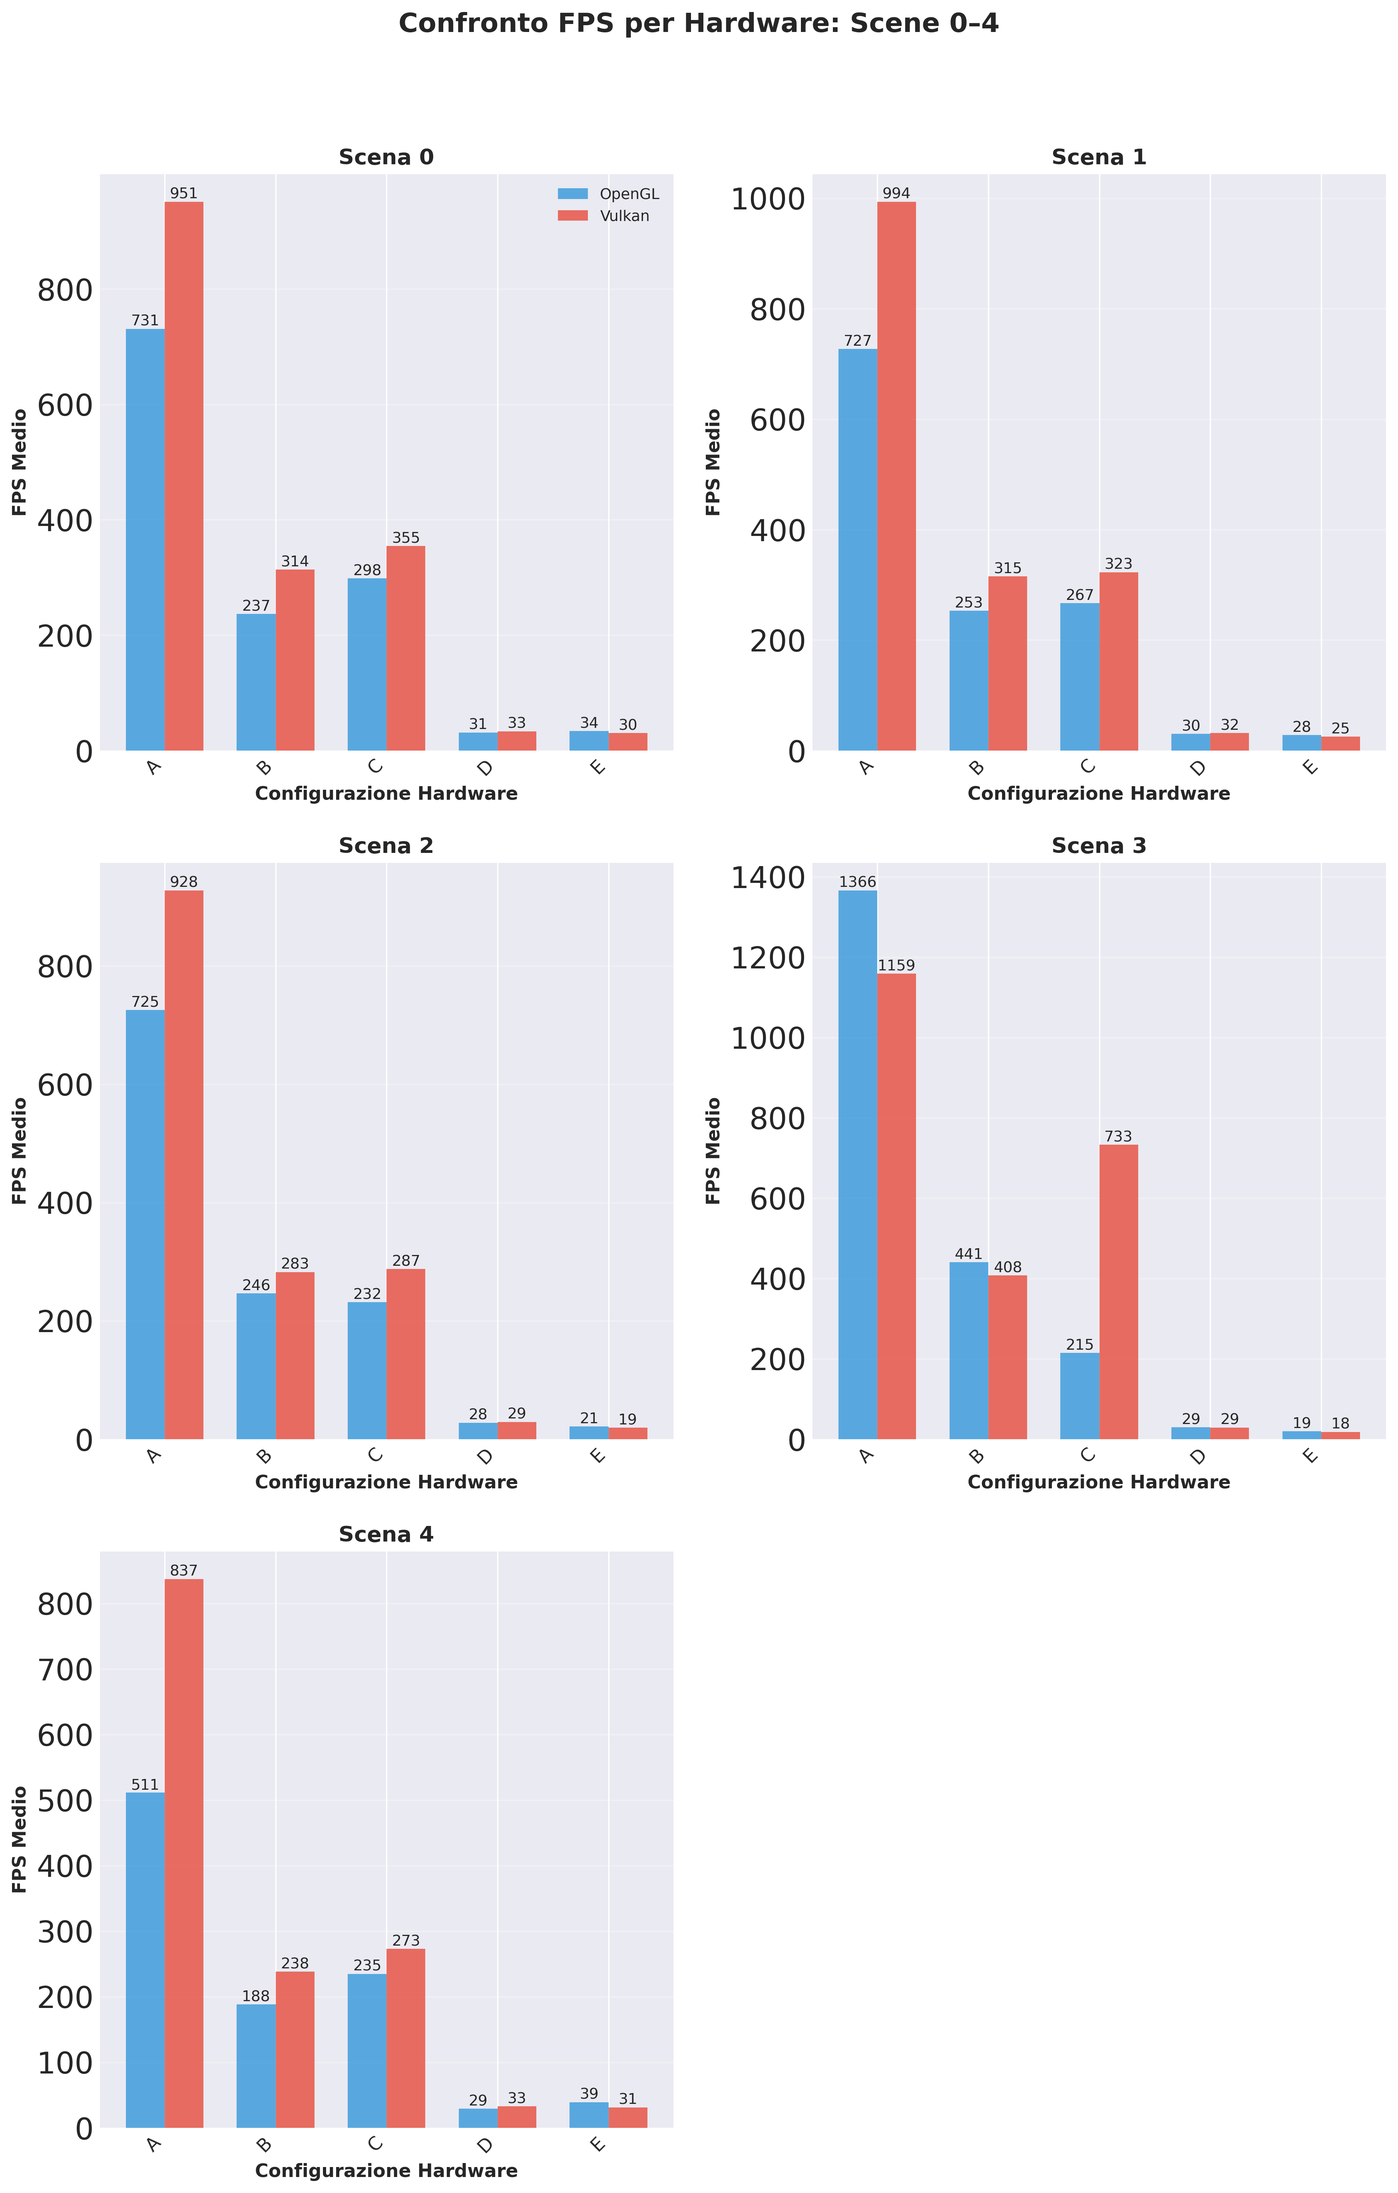
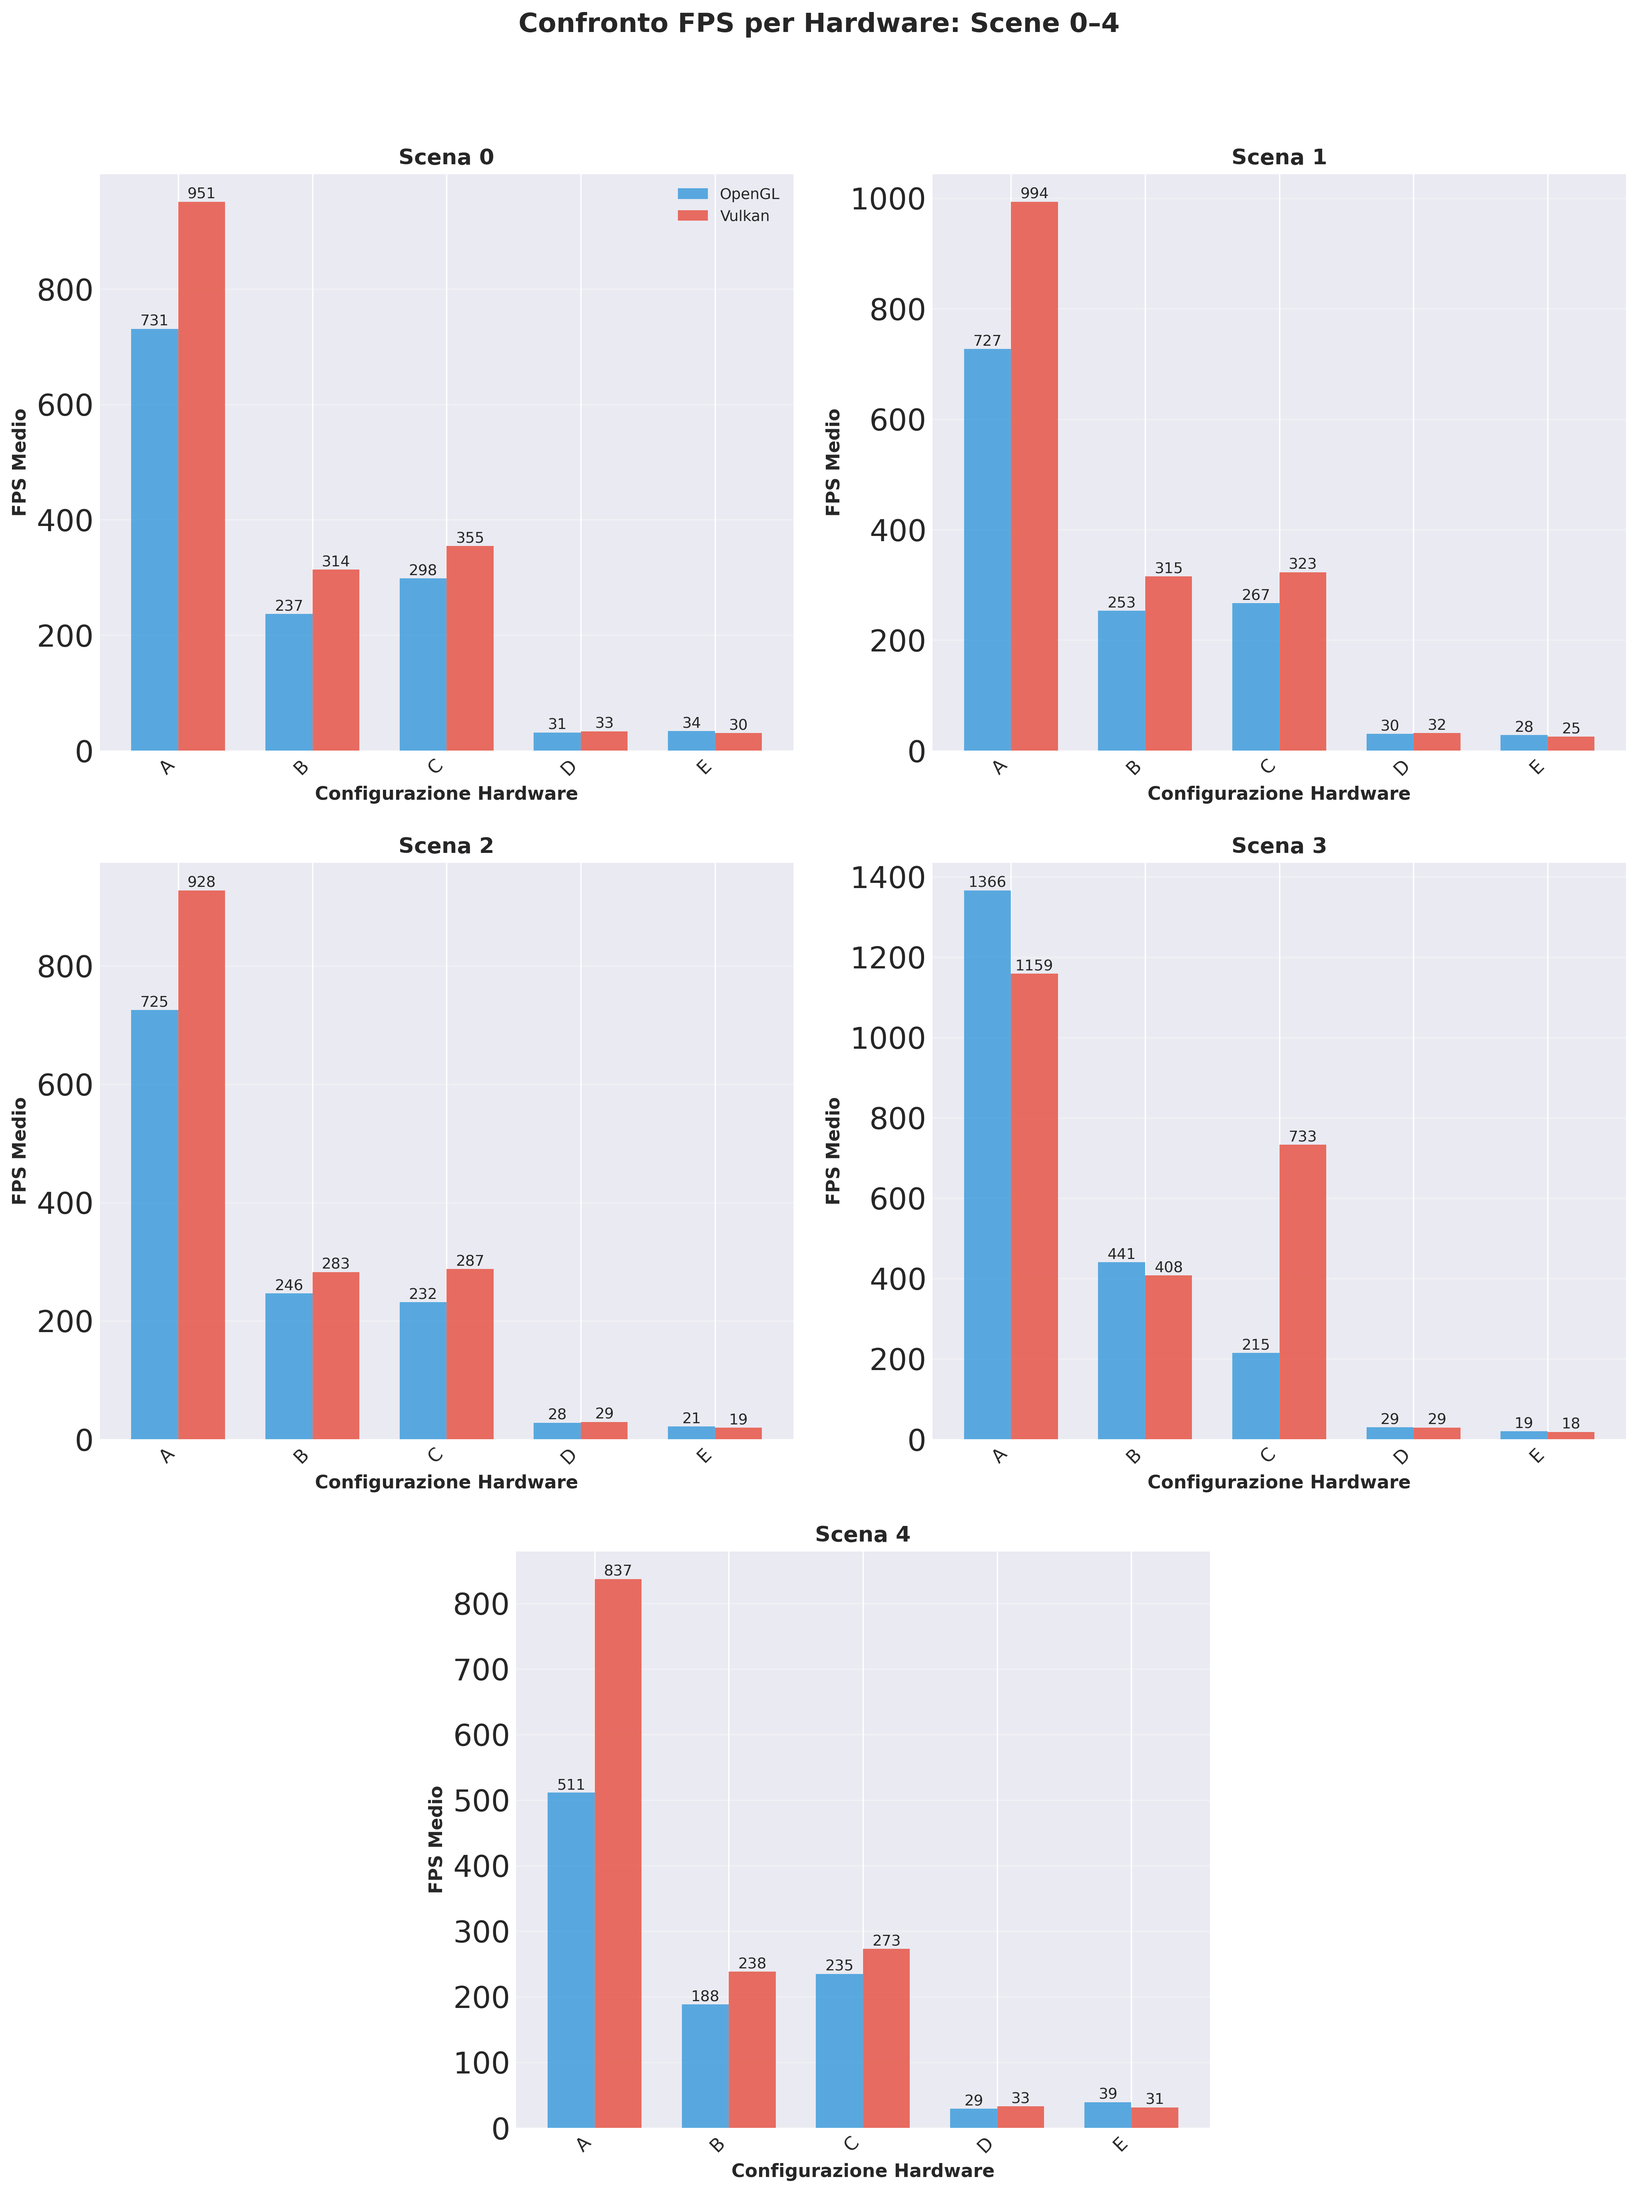
Update some graph layouts

diff --git a/scripts/main.py b/scripts/main.py
@@ -882,12 +882,23 @@ if not frames.empty and "FrameTime(ms)" in frames.columns:
 # ==============================
 if "Average FPS" in summary.columns and not summary.empty:
     scenes_all = [0, 1, 2, 3, 4]
-    fig, axes = plt.subplots(3, 2, figsize=(12, 18))
-    axes = axes.flatten()
+    fig = plt.figure(figsize=(14, 18))
+    gs = fig.add_gridspec(3, 4)
+    axes = []
+    # Scenes 0–3: top two rows, 2 cols each
+    positions = [
+        gs[0, 0:2],  # Scene 0
+        gs[0, 2:4],  # Scene 1
+        gs[1, 0:2],  # Scene 2
+        gs[1, 2:4],  # Scene 3
+        gs[2, 1:3],  # Scene 4 (centered)
+    ]
+    for pos in positions:
+        axes.append(fig.add_subplot(pos))
+    # 5th scene centered in bottom row
+    axes.append(fig.add_subplot(gs[1:3, :]))
 
     for idx, scene in enumerate(scenes_all):
-        if idx >= len(axes):
-            break
         ax = axes[idx]
         scene_data = summary[summary["Scene"] == scene]
         pcs = sorted(scene_data["PC"].unique())
@@ -933,12 +944,23 @@ if "Average FPS" in summary.columns and not summary.empty:
 # ==============================
 if "Average FPS" in summary.columns and not summary.empty:
     scenes_all = [0, 1, 2, 3, 4]
-    fig, axes = plt.subplots(3, 2, figsize=(12, 18))
-    axes = axes.flatten()
+    fig = plt.figure(figsize=(14, 18))
+    gs = fig.add_gridspec(3, 4)
+    axes = []
+    # Scenes 0–3: top two rows, 2 cols each
+    positions = [
+        gs[0, 0:2],  # Scene 0
+        gs[0, 2:4],  # Scene 1
+        gs[1, 0:2],  # Scene 2
+        gs[1, 2:4],  # Scene 3
+        gs[2, 1:3],  # Scene 4 (centered)
+    ]
+    for pos in positions:
+        axes.append(fig.add_subplot(pos))
+    # 5th scene centered in bottom row
+    axes.append(fig.add_subplot(gs[1:3, :]))
 
     for idx, scene in enumerate(scenes_all):
-        if idx >= len(axes):
-            break
         ax = axes[idx]
         scene_data = summary[summary["Scene"] == scene]
         pcs = sorted(scene_data["PC"].unique())
